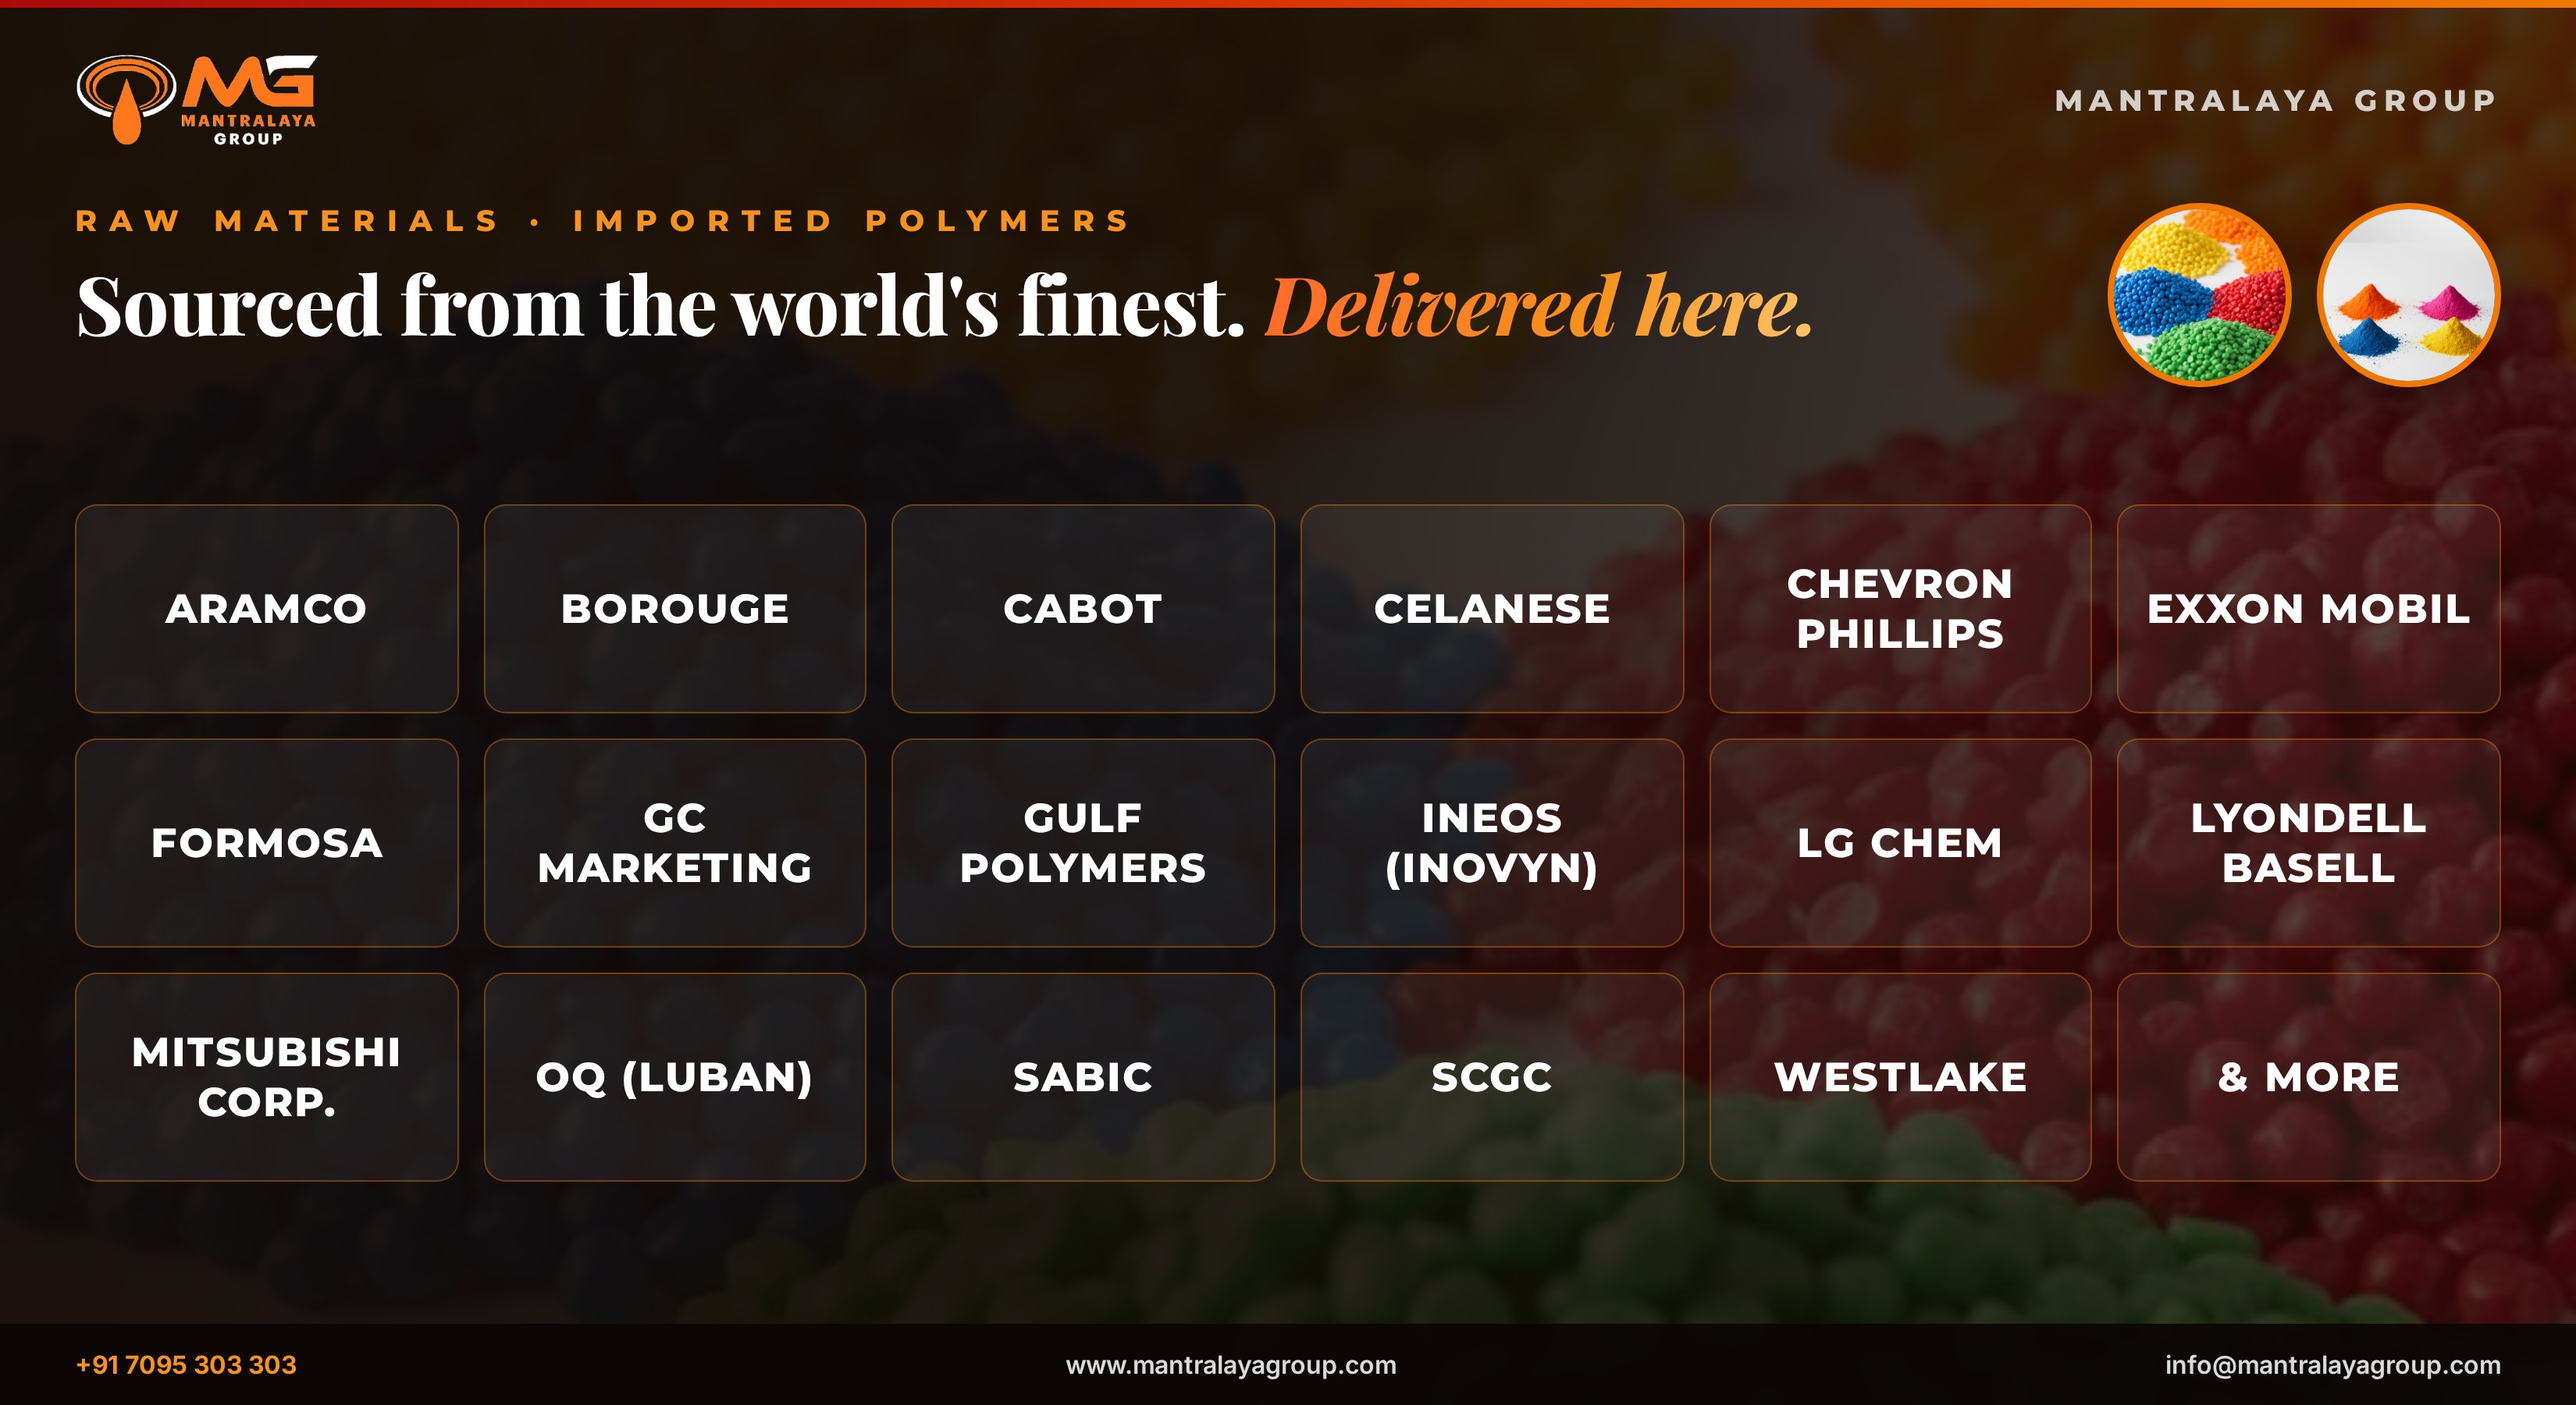
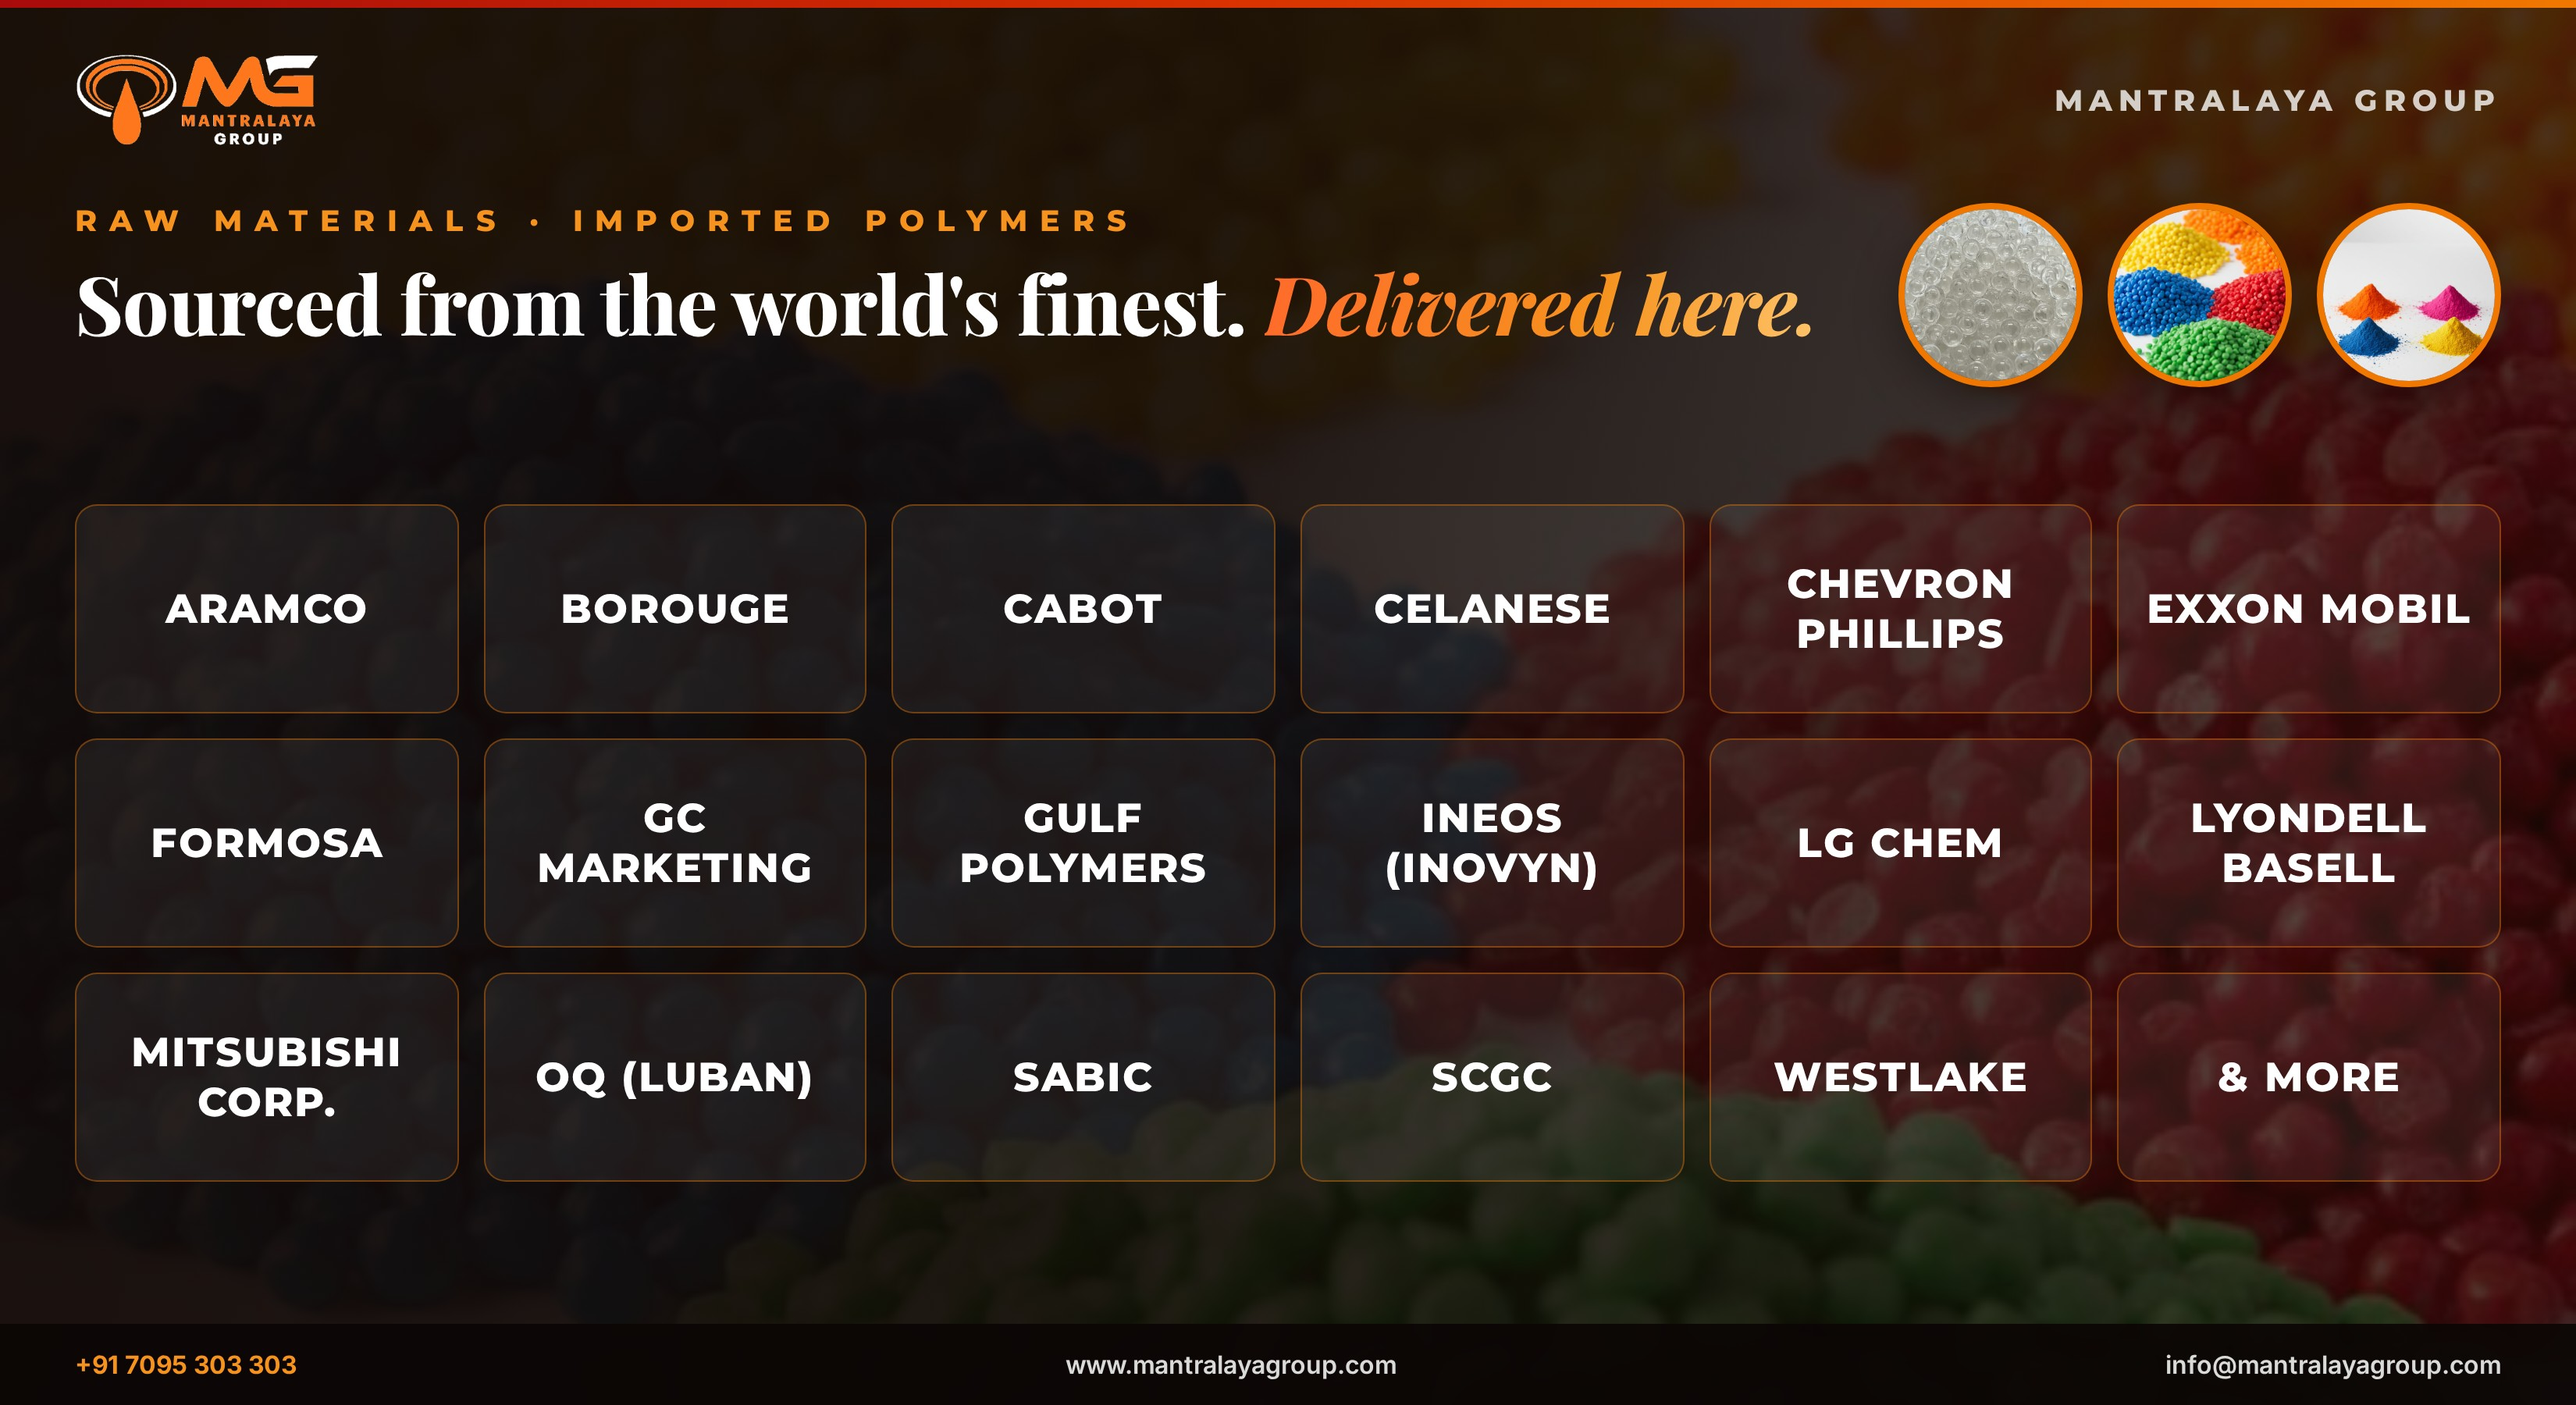
Posters 1 and 2: pigments + granules photo circles added

Changed region(s): [[0.7179, 0.1244, 0.8115, 0.28]]

diff --git a/posters/src/poster-02-raw-imported--dark.html b/posters/src/poster-02-raw-imported--dark.html
@@ -22,5 +22,5 @@ body{width:1650px;height:900px;overflow:hidden;position:relative;font-family:'Mo
 .pts{position:absolute;right:48px;top:130px;display:flex;gap:16px;z-index:5}
 .pt{width:118px;height:118px;border-radius:50%;overflow:hidden;border:4px solid #F07800;box-shadow:0 10px 28px rgba(0,0,0,0.35)}
 .pt img{width:100%;height:100%;object-fit:cover}
-</style><div class="bgimg"><img src="../../products/coloured-granules.jpg"></div><div class="rule"></div><div class="hdr"><img src="../../mg-logo-dark.png"><div class="co">MANTRALAYA GROUP</div></div><div class="pts"><div class="pt"><img src="../../products/coloured-granules.jpg"></div><div class="pt"><img src="../../products/pigments.jpg"></div></div>
+</style><div class="bgimg"><img src="../../products/coloured-granules.jpg"></div><div class="rule"></div><div class="hdr"><img src="../../mg-logo-dark.png"><div class="co">MANTRALAYA GROUP</div></div><div class="pts"><div class="pt"><img src="../../products/natural-granules.jpg"></div><div class="pt"><img src="../../products/coloured-granules.jpg"></div><div class="pt"><img src="../../products/pigments.jpg"></div></div>
 <div class="wrap z"><div class="label">RAW MATERIALS · IMPORTED POLYMERS</div><div class="cap cap2">Sourced from the world's finest. <em>Delivered here.</em></div><div class="bgrid"><div class="b">ARAMCO</div><div class="b">BOROUGE</div><div class="b">CABOT</div><div class="b">CELANESE</div><div class="b">CHEVRON PHILLIPS</div><div class="b">EXXON MOBIL</div><div class="b">FORMOSA</div><div class="b">GC MARKETING</div><div class="b">GULF POLYMERS</div><div class="b">INEOS (INOVYN)</div><div class="b">LG CHEM</div><div class="b">LYONDELL BASELL</div><div class="b">MITSUBISHI CORP.</div><div class="b">OQ (LUBAN)</div><div class="b">SABIC</div><div class="b">SCGC</div><div class="b">WESTLAKE</div><div class="b">&amp; MORE</div></div></div><div class="ftr"><span><b>+91 7095 303 303</b></span><span>www.mantralayagroup.com</span><span>info@mantralayagroup.com</span></div></body></html>

diff --git a/posters/src/poster-02-raw-imported--light.html b/posters/src/poster-02-raw-imported--light.html
@@ -22,5 +22,5 @@ body{width:1650px;height:900px;overflow:hidden;position:relative;font-family:'Mo
 .pts{position:absolute;right:48px;top:130px;display:flex;gap:16px;z-index:5}
 .pt{width:118px;height:118px;border-radius:50%;overflow:hidden;border:4px solid #F07800;box-shadow:0 10px 28px rgba(0,0,0,0.35)}
 .pt img{width:100%;height:100%;object-fit:cover}
-</style><div class="bgimg"><img src="../../products/coloured-granules.jpg"></div><div class="rule"></div><div class="hdr"><img src="../../mg-logo.png"><div class="co">MANTRALAYA GROUP</div></div><div class="pts"><div class="pt"><img src="../../products/coloured-granules.jpg"></div><div class="pt"><img src="../../products/pigments.jpg"></div></div>
+</style><div class="bgimg"><img src="../../products/coloured-granules.jpg"></div><div class="rule"></div><div class="hdr"><img src="../../mg-logo.png"><div class="co">MANTRALAYA GROUP</div></div><div class="pts"><div class="pt"><img src="../../products/natural-granules.jpg"></div><div class="pt"><img src="../../products/coloured-granules.jpg"></div><div class="pt"><img src="../../products/pigments.jpg"></div></div>
 <div class="wrap z"><div class="label">RAW MATERIALS · IMPORTED POLYMERS</div><div class="cap cap2">Sourced from the world's finest. <em>Delivered here.</em></div><div class="bgrid"><div class="b">ARAMCO</div><div class="b">BOROUGE</div><div class="b">CABOT</div><div class="b">CELANESE</div><div class="b">CHEVRON PHILLIPS</div><div class="b">EXXON MOBIL</div><div class="b">FORMOSA</div><div class="b">GC MARKETING</div><div class="b">GULF POLYMERS</div><div class="b">INEOS (INOVYN)</div><div class="b">LG CHEM</div><div class="b">LYONDELL BASELL</div><div class="b">MITSUBISHI CORP.</div><div class="b">OQ (LUBAN)</div><div class="b">SABIC</div><div class="b">SCGC</div><div class="b">WESTLAKE</div><div class="b">&amp; MORE</div></div></div><div class="ftr"><span><b>+91 7095 303 303</b></span><span>www.mantralayagroup.com</span><span>info@mantralayagroup.com</span></div></body></html>

diff --git a/posters/src/poster-01-raw-domestic--dark.html b/posters/src/poster-01-raw-domestic--dark.html
@@ -22,5 +22,5 @@ body{width:1500px;height:900px;overflow:hidden;position:relative;font-family:'Mo
 .pts{position:absolute;right:48px;top:130px;display:flex;gap:16px;z-index:5}
 .pt{width:118px;height:118px;border-radius:50%;overflow:hidden;border:4px solid #F07800;box-shadow:0 10px 28px rgba(0,0,0,0.35)}
 .pt img{width:100%;height:100%;object-fit:cover}
-</style><div class="bgimg"><img src="../../products/natural-granules.jpg"></div><div class="rule"></div><div class="hdr"><img src="../../mg-logo-dark.png"><div class="co">MANTRALAYA GROUP</div></div><div class="pts"><div class="pt"><img src="../../products/natural-granules.jpg"></div><div class="pt"><img src="../../products/coloured-granules.jpg"></div></div>
+</style><div class="bgimg"><img src="../../products/natural-granules.jpg"></div><div class="rule"></div><div class="hdr"><img src="../../mg-logo-dark.png"><div class="co">MANTRALAYA GROUP</div></div><div class="pts"><div class="pt"><img src="../../products/natural-granules.jpg"></div><div class="pt"><img src="../../products/coloured-granules.jpg"></div><div class="pt"><img src="../../products/pigments.jpg"></div></div>
 <div class="wrap z"><div class="label">RAW MATERIALS · DOMESTIC POLYMERS</div><div class="cap cap2">India's biggest polymer names. <em>One trusted trader.</em></div><div class="bgrid"><div class="b">GAIL</div><div class="b">BCPL</div><div class="b">HMEL</div><div class="b">HALDIA</div><div class="b">OPAL</div><div class="b">MRPL</div><div class="b">HPCL</div><div class="b">RELIANCE</div><div class="b">NAYARA</div></div></div><div class="ftr"><span><b>+91 7095 303 303</b></span><span>www.mantralayagroup.com</span><span>info@mantralayagroup.com</span></div></body></html>

diff --git a/posters/src/poster-01-raw-domestic--light.html b/posters/src/poster-01-raw-domestic--light.html
@@ -22,5 +22,5 @@ body{width:1500px;height:900px;overflow:hidden;position:relative;font-family:'Mo
 .pts{position:absolute;right:48px;top:130px;display:flex;gap:16px;z-index:5}
 .pt{width:118px;height:118px;border-radius:50%;overflow:hidden;border:4px solid #F07800;box-shadow:0 10px 28px rgba(0,0,0,0.35)}
 .pt img{width:100%;height:100%;object-fit:cover}
-</style><div class="bgimg"><img src="../../products/natural-granules.jpg"></div><div class="rule"></div><div class="hdr"><img src="../../mg-logo.png"><div class="co">MANTRALAYA GROUP</div></div><div class="pts"><div class="pt"><img src="../../products/natural-granules.jpg"></div><div class="pt"><img src="../../products/coloured-granules.jpg"></div></div>
+</style><div class="bgimg"><img src="../../products/natural-granules.jpg"></div><div class="rule"></div><div class="hdr"><img src="../../mg-logo.png"><div class="co">MANTRALAYA GROUP</div></div><div class="pts"><div class="pt"><img src="../../products/natural-granules.jpg"></div><div class="pt"><img src="../../products/coloured-granules.jpg"></div><div class="pt"><img src="../../products/pigments.jpg"></div></div>
 <div class="wrap z"><div class="label">RAW MATERIALS · DOMESTIC POLYMERS</div><div class="cap cap2">India's biggest polymer names. <em>One trusted trader.</em></div><div class="bgrid"><div class="b">GAIL</div><div class="b">BCPL</div><div class="b">HMEL</div><div class="b">HALDIA</div><div class="b">OPAL</div><div class="b">MRPL</div><div class="b">HPCL</div><div class="b">RELIANCE</div><div class="b">NAYARA</div></div></div><div class="ftr"><span><b>+91 7095 303 303</b></span><span>www.mantralayagroup.com</span><span>info@mantralayagroup.com</span></div></body></html>

diff --git a/posters/gen2.py b/posters/gen2.py
@@ -187,10 +187,10 @@ def build(dark):
     em = lambda t: f"<em>{t}</em>"
     v['poster-01-raw-domestic'] = (1500,900, brandgrid(1500,900,dark,'RAW MATERIALS · DOMESTIC POLYMERS',
       f"India's biggest polymer names. {em('One trusted trader.')}",
-      ['GAIL','BCPL','HMEL','HALDIA','OPAL','MRPL','HPCL','RELIANCE','NAYARA'],3,'natural-granules',circles=['natural-granules','coloured-granules']))
+      ['GAIL','BCPL','HMEL','HALDIA','OPAL','MRPL','HPCL','RELIANCE','NAYARA'],3,'natural-granules',circles=['natural-granules','coloured-granules','pigments']))
     v['poster-02-raw-imported'] = (1650,900, brandgrid(1650,900,dark,'RAW MATERIALS · IMPORTED POLYMERS',
       f"Sourced from the world's finest. {em('Delivered here.')}",
-      ['ARAMCO','BOROUGE','CABOT','CELANESE','CHEVRON PHILLIPS','EXXON MOBIL','FORMOSA','GC MARKETING','GULF POLYMERS','INEOS (INOVYN)','LG CHEM','LYONDELL BASELL','MITSUBISHI CORP.','OQ (LUBAN)','SABIC','SCGC','WESTLAKE','&amp; MORE'],6,'coloured-granules',circles=['coloured-granules','pigments']))
+      ['ARAMCO','BOROUGE','CABOT','CELANESE','CHEVRON PHILLIPS','EXXON MOBIL','FORMOSA','GC MARKETING','GULF POLYMERS','INEOS (INOVYN)','LG CHEM','LYONDELL BASELL','MITSUBISHI CORP.','OQ (LUBAN)','SABIC','SCGC','WESTLAKE','&amp; MORE'],6,'coloured-granules',circles=['natural-granules','coloured-granules','pigments']))
     v['poster-03-pigments'] = (700,1000, photoposter(700,1000,dark,'PIGMENTS','Colour, mastered.','Organic &amp; inorganic pigments for every application.','pigments'))
     v['poster-04-moisture'] = (800,1000, photoposter(800,1000,dark,'MOISTURE POWDER &amp; DANA','Dry. Consistent. Reliable.','Moisture powder &amp; moisture dana — quality you can measure.','natural-granules'))
     v['poster-05-masterbatch'] = (700,1000, photoposter(700,1000,dark,'MASTER BATCHES','The right shade. Every batch.','White, black &amp; colour master batches.','coloured-granules'))
